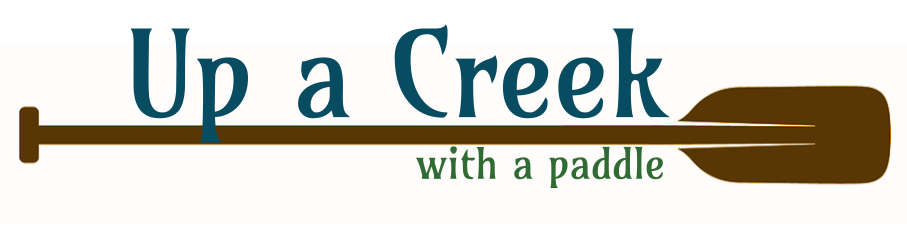
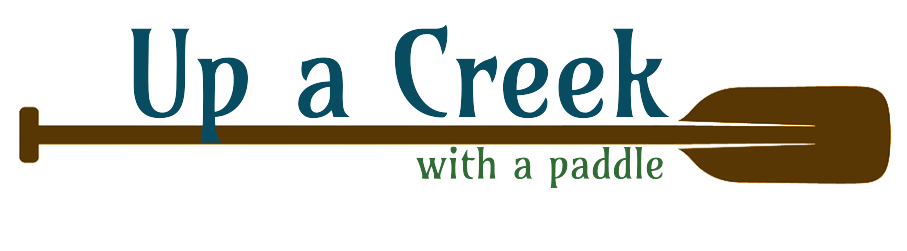
idk

diff --git a/wwr/styles/style.css b/wwr/styles/style.css
@@ -26,14 +26,20 @@
 #content {
     max-width: 1600px;
     text-align: center;
-    background-color: #E7DFC6;
     font-family: Amarante, Comfortaa, sans-serif;
     font-size: 22px;
-    margin: 0;
+    margin: 0 auto;
     padding: 0;
 }
-
+header {
+    display: grid;
+    grid-template-columns: 450px auto;
+}
 /* Navagation */
+nav {
+    display: flex;
+    justify-content: space-around;
+}
 nav{
     background-color: var(--nav-background-color);
     line-height: 3em;
@@ -57,18 +63,22 @@ nav a:hover {
     color: var(--nav-hover-link-color);
     background-color: var(--nav-hover-background-color);
 }
-
-/* HERO section and image */
-.hero {
-    margin-bottom: 100px;
-    border-bottom: 3px solid #bbb;
+#logo_link {
+    padding-top: 10px;
+    justify-self: center;
+    align-self: center;
 }
+/* HERO section and image */
 #hero-img {
     display: block;
     margin-left: auto;
     margin-right: auto;
     width: 100%;
+}.hero {
+    margin-bottom: 100px;
+    border-bottom: 3px solid #bbb;
 }
+
 #hero-msg {
     text-align: center;
 }
@@ -76,7 +86,32 @@ nav a:hover {
     font-size: 2em;
     margin-top: 10px;
 }
-
+#hero {
+    display: grid;
+    grid-template-columns: 1fr 3fr 1fr;
+}
+#hero-box {
+    grid-column: 1/4;
+    grid-row: 1/3;
+}
+#hero-msg h4 {
+    color: white;
+}
+#hero {
+    display: grid;
+    grid-template-columns: 1fr 3fr 1fr;
+    margin-top: -100px; 
+}
+#hero-msg {
+    grid-column: 2/3;
+    grid-row: 1/2;
+    margin-top: 100px;
+}
+#hero-box {
+    grid-column: 1/4;
+    grid-row: 1/3;
+    z-index: -1;
+}
 /* Book and Join Links */
 
 .book, .join {
@@ -102,6 +137,9 @@ a.book, a.join, a:active {
 .river-card, .camping-card, .rapids-card {
     margin: 200px 0;
 }
+.card-img, .mountains {
+    width: 100%;
+}
 .card-img {
     display: block;
     margin-left: auto;
@@ -122,7 +160,48 @@ a.book, a.join, a:active {
     margin-top: 100px;
     margin-bottom: 200px;
 }
-
+.river-card {
+    grid-column: 2/4;
+    grid-row: 2/3;
+}
+.camping-card {
+    grid-column: 5/7;
+    grid-row: 2/3;
+}
+.rapids-card {
+    grid-column: 8/10;
+    grid-row: 2/3;
+}
+#background {
+    grid-column: 1/11;
+    grid-row: 4/9;
+}
+.msg {
+    grid-column: 6/10;
+    grid-row: 6/7;
+}
+.card-img {
+    border: 10px solid #d9c2a3;
+    transition: transform .5s;
+    box-shadow: 5px 5px 10px #6f7364;
+}
+.card-img:hover {
+    opacity: .6;
+    transform: scale(1.1);
+}
+.msg {
+    background-color: #6f7364;
+    padding: 35px;
+    grid-column: 6/10;
+    grid-row: 6/7;
+    box-shadow: 5px 5px 10px #6f7364;
+}
+.mountains {
+    width: 100%;
+    grid-column: 2/7;
+    grid-row: 5/8;
+    box-shadow: 5px 5px 10px #6f7364;
+}
 /* H1, H2, H4, P Settings*/
 
 h1, h2 {
@@ -173,11 +252,61 @@ footer .social img {
 .hyper, a:hover {
     text-decoration: none
 }
-
+footer {
+    background-color: #306B34;
+    padding: 25px 50px;
+    margin-top: 200px; 
+    display: flex;
+    justify-content: space-around;
+    align-items: center;
+}
 /* Background Section */
 
 #background {
     height: 725px;
     background-color: #084C61;
     padding-bottom: 25px; 
+}
+
+
+@media screen and (max-width: 900px) {
+    #hero, .home-grid {
+        display: block;
+        height: auto;
+    }
+    nav, footer {
+        flex-direction: column;
+    }
+    nav a {
+        display: block;
+        padding: 15px;
+    }
+    #hero {
+        margin-top: 0;
+    }
+    #hero-msg {
+        margin-top: 0;
+    }
+    #hero-msg h4 {
+        display: none;
+    }
+    .home-title {
+        font-size: 25px;
+        color: #6f7364;
+    }
+    .rivers-card, .camping-card, .rapids-card { 
+        margin: 50px auto;
+        width: 60%;
+    }
+    #background {
+        display: none;
+    }
+    .mountains, .msg {
+        width: 80%;
+        display: block;
+        margin: 0 auto;
+    }
+    footer {
+        margin-top: 25px;
+    }
 }

diff --git a/wwr/index.html b/wwr/index.html
@@ -12,7 +12,8 @@
 
         <header>
             <a id="logo_link" href="index.html">
-                <img class="logo" src="images/upacreek3.png" alt="Up a Creek">
+                <img class="logo" src="images/upacreek3.png" alt="Up a Creek"
+                width="400">
             </a>
             <nav>
                 <a href="index.html">Home</a>
@@ -52,9 +53,9 @@
             <div id="background"></div>
             <img class="mountains" src="images/mountains.jpg" alt="Misty mountains">
             <section class="msg">
-                <h2 class="hed2">More Than Knee Deep in a Creek</h2>
-                <p class="p2">Be immersed in the breathtaking scenery. From valleys, meadows, canyons and high peaks; it's more than just rapids. It's an opportunity to relax amidst all the beauty of nature. </p>
-                <a class='join' href="rivers.html" target="_blank">Join Us</a>
+                <h2>More Than Just The Thrill</h2>
+                <p>Enjoy the breathtaking scenery. From valleys, meadows, canyons, and high peaks; it's way more than just the rapids. It's a great way to get away from it all and relax amongst all the beauty of the great outdoors. </p>
+                <a class='join' href="rivers.html">Join Us</a>
             </section>
         </main>
         <footer>
